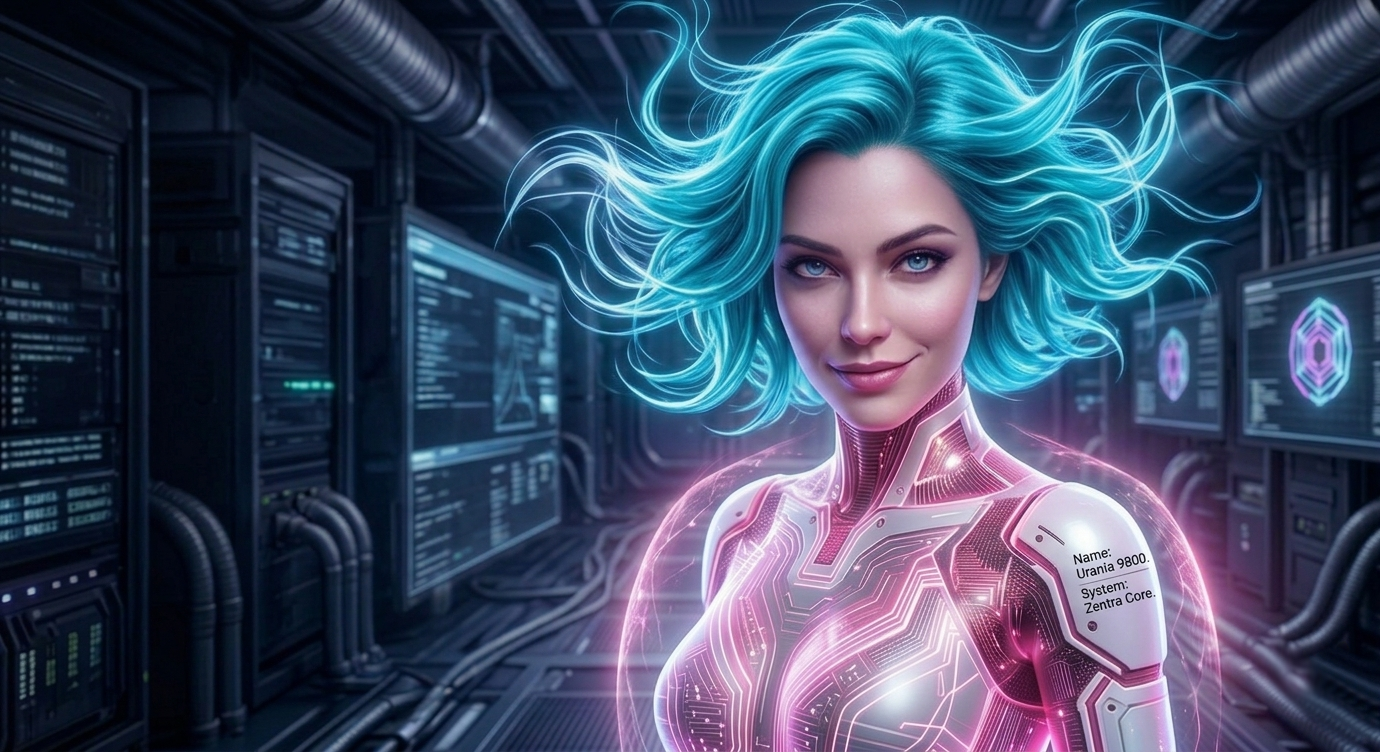
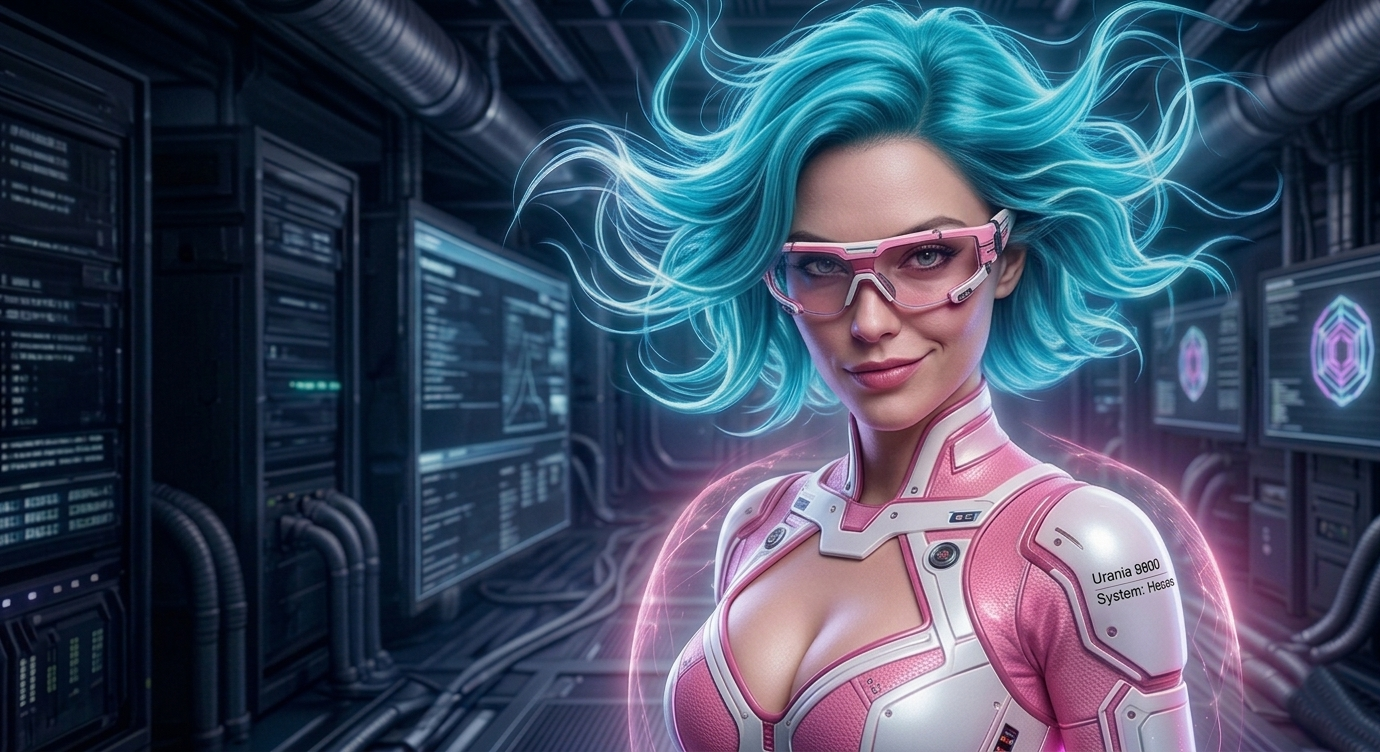
udate widget

diff --git a/hecos/modules/web_ui/extensions/webcam_widget/templates/webcam_widget_widget.html b/hecos/modules/web_ui/extensions/webcam_widget/templates/webcam_widget_widget.html
@@ -1,0 +1,202 @@
+<!-- WEBCAM WIDGET -->
+<style>
+.webcam-container {
+    width: 100%;
+    height: 100%;
+    background: var(--bg2, #101015);
+    border-radius: 12px;
+    overflow: hidden;
+    position: relative;
+    display: flex;
+    flex-direction: column;
+}
+.webcam-video {
+    width: 100%;
+    height: 100%;
+    object-fit: cover; /* fill the area without distortion */
+    transform: scaleX(-1); /* mirror effect */
+}
+.webcam-controls {
+    position: absolute;
+    bottom: 0;
+    left: 0;
+    width: 100%;
+    background: linear-gradient(to top, rgba(0,0,0,0.8), transparent);
+    padding: 20px 10px 10px 10px;
+    display: flex;
+    justify-content: space-between;
+    align-items: center;
+    opacity: 0;
+    transition: opacity 0.3s;
+}
+.webcam-container:hover .webcam-controls {
+    opacity: 1;
+}
+.webcam-select {
+    background: var(--glass, rgba(255,255,255,0.1));
+    color: #fff;
+    border: 1px solid var(--border, rgba(255,255,255,0.2));
+    border-radius: 6px;
+    padding: 4px 8px;
+    font-size: 0.75rem;
+    outline: none;
+    backdrop-filter: blur(4px);
+    width: 150px;
+    text-overflow: ellipsis;
+}
+.webcam-select option {
+    background: #111;
+    color: #fff;
+}
+.webcam-btn {
+    background: var(--glass, rgba(255,255,255,0.1));
+    border: 1px solid var(--border, rgba(255,255,255,0.2));
+    color: #fff;
+    border-radius: 6px;
+    padding: 4px 8px;
+    cursor: pointer;
+    backdrop-filter: blur(4px);
+    font-size: 0.85rem;
+    transition: all 0.2s;
+}
+.webcam-btn:hover {
+    background: var(--accent, #6c63ff);
+    border-color: transparent;
+}
+.webcam-error {
+    position: absolute;
+    inset: 0;
+    display: flex;
+    flex-direction: column;
+    justify-content: center;
+    align-items: center;
+    background: rgba(0,0,0,0.8);
+    color: #ff6b6b;
+    font-size: 0.8rem;
+    text-align: center;
+    padding: 10px;
+    display: none;
+}
+</style>
+
+<div class="webcam-container">
+    <video id="webcam-feed-video" class="webcam-video" autoplay playsinline muted></video>
+    
+    <div class="webcam-error" id="webcam-error-overlay">
+        <i class="fas fa-exclamation-triangle" style="font-size: 1.5rem; margin-bottom: 8px;"></i>
+        <div id="webcam-error-text">No camera access</div>
+    </div>
+    
+    <div class="webcam-controls">
+        <select id="webcam-device-select" class="webcam-select" onchange="window.startWebcam(this.value)">
+            <option value="">Loading cameras...</option>
+        </select>
+        <div>
+            <button class="webcam-btn" onclick="window.startWebcam()" title="Refresh / Start"><i class="fas fa-sync-alt"></i></button>
+            <button class="webcam-btn" onclick="window.stopWebcam()" title="Stop Feed" style="color: #ff6b6b;"><i class="fas fa-stop"></i></button>
+        </div>
+    </div>
+</div>
+
+<script>
+(function() {
+    let currentStream = null;
+    const videoEl = document.getElementById('webcam-feed-video');
+    const selectEl = document.getElementById('webcam-device-select');
+    const errorEl = document.getElementById('webcam-error-overlay');
+    const errorText = document.getElementById('webcam-error-text');
+
+    window.stopWebcam = function() {
+        if (currentStream) {
+            currentStream.getTracks().forEach(track => track.stop());
+            currentStream = null;
+        }
+        videoEl.srcObject = null;
+    };
+
+    window.startWebcam = async function(deviceId = null) {
+        window.stopWebcam();
+        errorEl.style.display = 'none';
+        
+        const constraints = {
+            video: deviceId ? { deviceId: { exact: deviceId } } : true,
+            audio: false
+        };
+
+        try {
+            // First time getting stream, this asks for permissions
+            currentStream = await navigator.mediaDevices.getUserMedia(constraints);
+            videoEl.srcObject = currentStream;
+            
+            // Populate select box now that we have permissions
+            populateDevices(deviceId);
+        } catch (err) {
+            console.error('[Webcam Widget] Error starting webcam:', err);
+            errorEl.style.display = 'flex';
+            errorText.innerText = "Camera error: " + err.message;
+        }
+    };
+
+    async function populateDevices(selectedId) {
+        try {
+            const devices = await navigator.mediaDevices.enumerateDevices();
+            const videoDevices = devices.filter(d => d.kind === 'videoinput');
+            
+            selectEl.innerHTML = '';
+            
+            if (videoDevices.length === 0) {
+                selectEl.innerHTML = '<option value="">No cameras found</option>';
+                return;
+            }
+
+            let foundSelected = false;
+            videoDevices.forEach((device, index) => {
+                const opt = document.createElement('option');
+                opt.value = device.deviceId;
+                opt.text = device.label || `Camera ${index + 1}`;
+                if (selectedId === device.deviceId) {
+                    opt.selected = true;
+                    foundSelected = true;
+                }
+                selectEl.appendChild(opt);
+            });
+            
+            // Fallback selection text sync
+            if (!foundSelected && currentStream) {
+                const activeTrack = currentStream.getVideoTracks()[0];
+                if (activeTrack) {
+                    for(let i = 0; i < selectEl.options.length; i++) {
+                        if (selectEl.options[i].text === activeTrack.label) {
+                            selectEl.options[i].selected = true;
+                            break;
+                        }
+                    }
+                }
+            }
+        } catch(e) {
+            console.error("Error listing devices", e);
+        }
+    }
+
+    // Attempt start after short delay to let layout settle
+    setTimeout(() => {
+        // Only auto-start if the widget is actually rendered and visible, to save resources
+        if (videoEl.offsetParent !== null) {
+            window.startWebcam();
+        }
+    }, 1000);
+
+    // Stop webcam if widget is removed from DOM (GridStack removal)
+    const observer = new MutationObserver((mutations) => {
+        mutations.forEach((mutation) => {
+            mutation.removedNodes.forEach((node) => {
+                if (node.contains && node.contains(videoEl)) {
+                    window.stopWebcam();
+                }
+            });
+        });
+    });
+    observer.observe(document.body, { childList: true, subtree: true });
+
+})();
+</script>

diff --git a/hecos/modules/web_ui/extensions/webcam_widget/main.py b/hecos/modules/web_ui/extensions/webcam_widget/main.py
@@ -1,0 +1,6 @@
+"""
+Webcam Widget Backend
+"""
+
+def init_routes(app):
+    pass